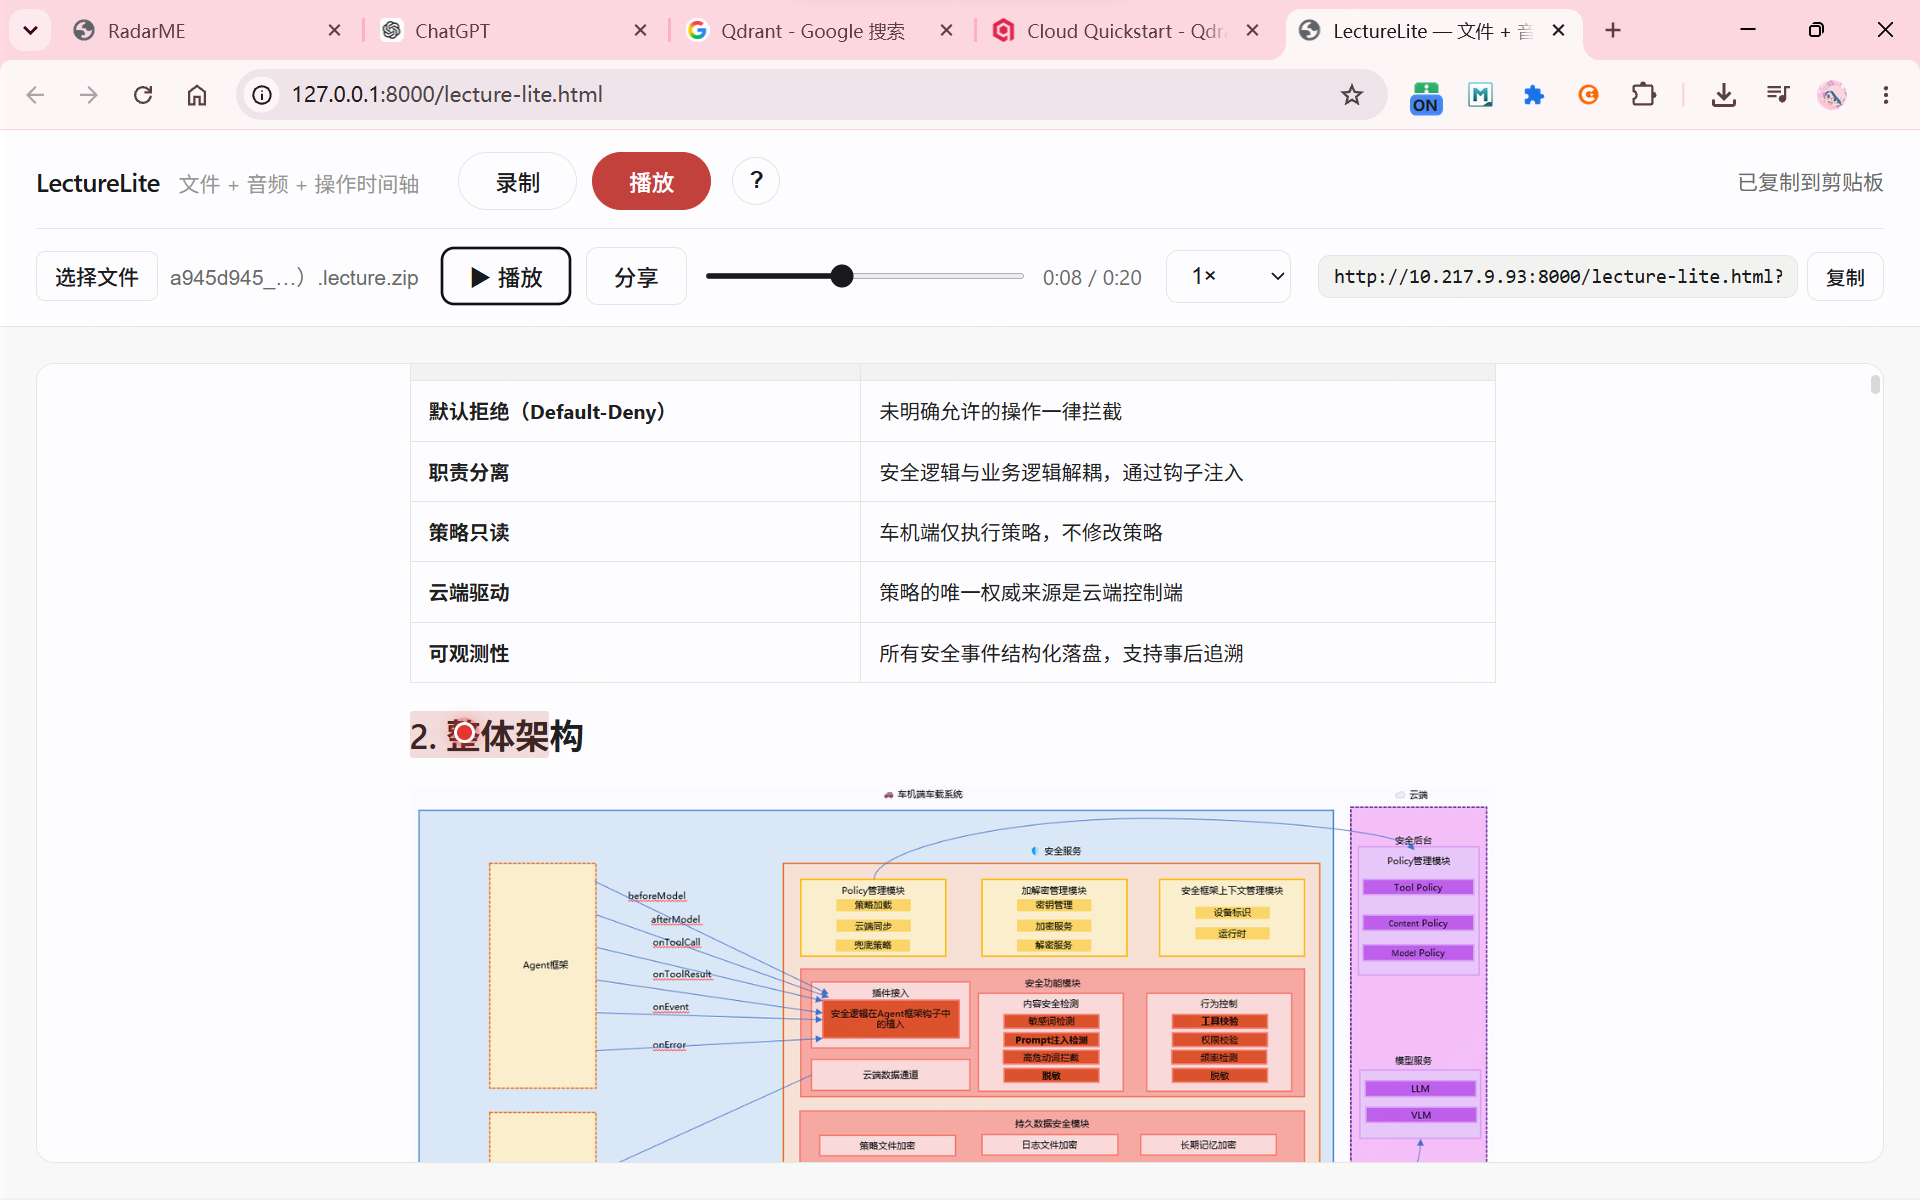
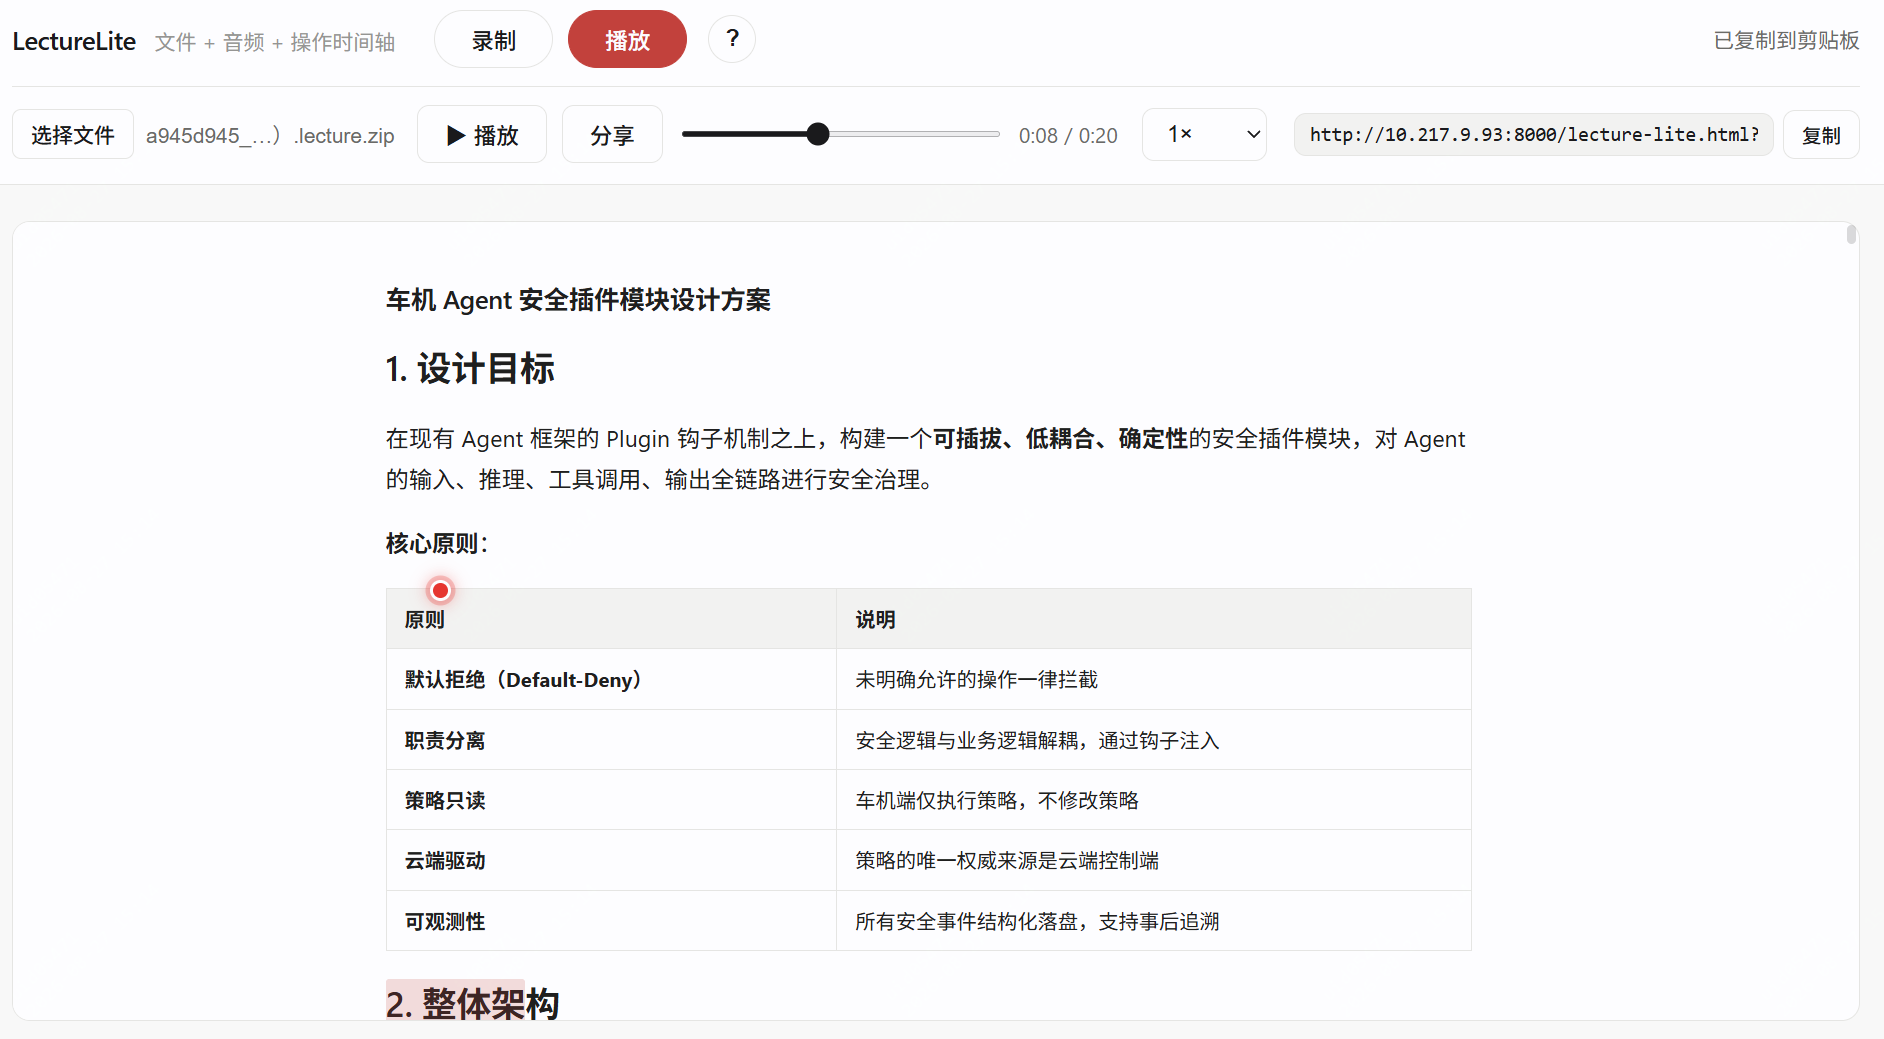
对readme做了简单的改动

diff --git a/README.md b/README.md
@@ -22,7 +22,7 @@
 依赖仅 Python 标准库：
 
 ```bash
-python serv0定端口
+python serve.py
 ```
 
 启动后自动打开浏览器，控制台会打印本机与局域网访问地址。
